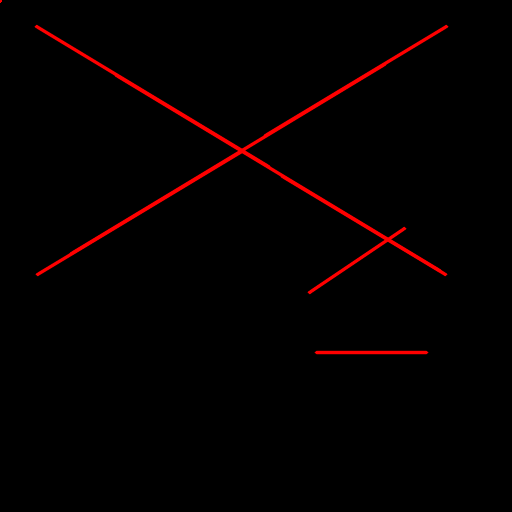
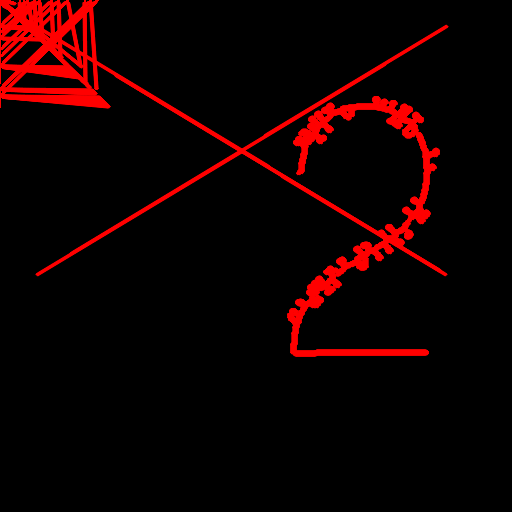
included is the new two image. DON'T use a jpg image.

diff --git a/tests/imageProcTests.cpp b/tests/imageProcTests.cpp
@@ -11,7 +11,7 @@
 int main(){
 
 	//string array of image filenames
-	std::string filename[NUM_IMAGES] = {"images/line.png", "images/diagonal-line.png", "images/horizontal-lines.jpg", "images/wovenlines.jpeg", "images/curved-line.png", "images/two.jpg"};
+	std::string filename[NUM_IMAGES] = {"images/line.png", "images/diagonal-line.png", "images/horizontal-lines.jpg", "images/wovenlines.jpeg", "images/curved-line.png", "images/two2.png"};
 	cv::RNG rng(0); //random number generator so we can make draw each line a different color
 
 
@@ -39,7 +39,7 @@ int main(){
 	
 		printf("\n'%s' Dimensions: %i x %i\n", filename[i].c_str(), imgSize.width, imgSize.height);
 
-		//cv::Mat detected_lines_img = cv::Mat::zeros(src.size(), CV_8UC3);
+		cv::Mat detected_lines_img = cv::Mat::zeros(src.size(), CV_8UC3);
 		//detected_lines_img.copyTo(detected_lines_img, src);
 		for(size_t j = 0; j < lines.size(); j++){
 			cv::Vec4i l = lines[j];	
@@ -48,7 +48,7 @@ int main(){
 			cv::line(src, cv::Point(l[0], l[1]), cv::Point(l[2], l[3]), line_color, 1, CV_AA);
 		}
 
-		//cv::imshow(filename[i].c_str(), src);
+		cv::imshow(filename[i].c_str(), src_copy);
 		
 	}
 
@@ -93,7 +93,7 @@ int main(){
 		printf("hierarchy size: %i\n", (int)hierarchy.size());
 		printf("size: %i\n", (int)contours.size());
 
-		cv::imshow(filename[j].c_str(), draw_contours);
+		//cv::imshow(filename[j].c_str(), draw_contours);
 
 	}
 
@@ -143,8 +143,8 @@ int main(){
 
 		printf("%s: num valid contours: %i\n", filename[k].c_str(), (int)valid_contours.size());
 
-		if(filename[k] == filename[2])
-			cv::imshow("valid contours", draw_valid_contours);
+		//if(filename[k] == filename[2])
+			//cv::imshow("valid contours", draw_valid_contours);
 	}
 
 	///////////////////////////////////////////////////////////////////////////////////////////////

diff --git a/src/draw.cpp b/src/draw.cpp
@@ -19,17 +19,17 @@ const char * RfileName = "/dev/ttyUSB0";//real
 void Draw(Vertex* v)//visit all other vertices associated with current vertex
 {
 	// open serial device for both reading and writing
-	/**/FILE *comm = fopen(RfileName, "r+");
+	/**/FILE *comm = fopen(TfileName, "r+");
 
 	if(!comm){
 		printf("Couldn't open file: Switching ports...\n"); 
-		RfileName = "/dev/ttyUSB1";
-		comm = fopen(RfileName,"r+");  //Opening device file(/dev/ttyUSB0or1) 
+		TfileName = "/dev/ttyUSB1";
+		comm = fopen(TfileName,"r+");  //Opening device file(/dev/ttyUSB0or1) 
 
 		if(!comm){
 			printf("Couldn't open file: Switching ports...\n");
-			RfileName = "dev/ttyS0"; 
-			comm = fopen(RfileName,"r+");  //Opening device file(/dev/ttyUSB0or1) 	
+			TfileName = "dev/ttyS0"; 
+			comm = fopen(TfileName,"r+");  //Opening device file(/dev/ttyUSB0or1) 	
 			if(!comm){
 				printf("Please make sure robot is connected.\n");
 			}
@@ -47,7 +47,7 @@ void Draw(Vertex* v)//visit all other vertices associated with current vertex
 	//Send the vertices coordinates to the robot through its port file
 	sendCoordinates(points1[0], points1[1], points2[0], points2[1], comm);//for file writing
 	
-	//sim.drawPic(temp);//for simulated robots
+	sim.drawPic(temp);//for simulated robots
 	
 	temp->setVisited(1);//vertex is being processed, used for debugging
 
@@ -55,10 +55,11 @@ void Draw(Vertex* v)//visit all other vertices associated with current vertex
 	bool done  = false; 
 	int c = 0;  
 	while(!done && c<10){
+		break;
 		usleep(5000);//check if drawing is done every 1 second	
 		int response = -5;
 		c++;
-		//response = receiveACKSerial(comm);
+		response = receiveACKSerial(comm);
 		if(response == 0){
 			done = true; //right checksum has been recievedcomm
 		}else if(response == -2){

diff --git a/src/RobotComm.cpp b/src/RobotComm.cpp
@@ -41,7 +41,7 @@ void sendCoordinates(int x1, int y1, int x2, int y2, FILE * file){
 	checkSum = x1+y1+y2+x2; 
 	fprintf(file, "%d,%d,%d,%d,%d\n",x1,y1,x2,y2, checkSum); //Writing to the file. Seperate coordinates using commas
 	cout << "Points sent: " << x1 << "," << y1 << "," << x2 << "," << y2 << "\n";
-	//fprintf(file, "DONE(%i)\n",checkSum);
+	fprintf(file, "y");
 	fflush(file);//send the message 
 	
 }

diff --git a/src/main.cpp b/src/main.cpp
@@ -43,8 +43,8 @@ int main(int argc, char** argv){
 		cv::Vec4i l = lines[i];	
 		printf("line[%i]: (%i, %i) -> (%i, %i)\n", (int) i, l[0], l[1], l[2], l[3]);
 		//line( bw, cv::Point(l[0], l[1]), cv::Point(l[2], l[3]), cv::Scalar(0,0,255), 1, CV_AA);
-		//Vertex* temp = vec2Vertex(l);
-		//Draw(temp); 
+		Vertex* temp = vec2Vertex(l);
+		Draw(temp); 
 		
 	}
 
